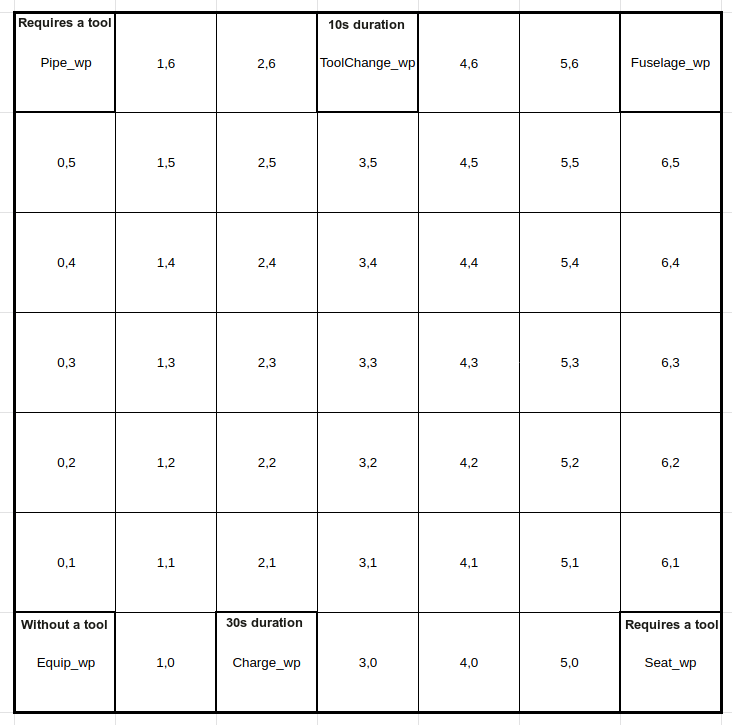
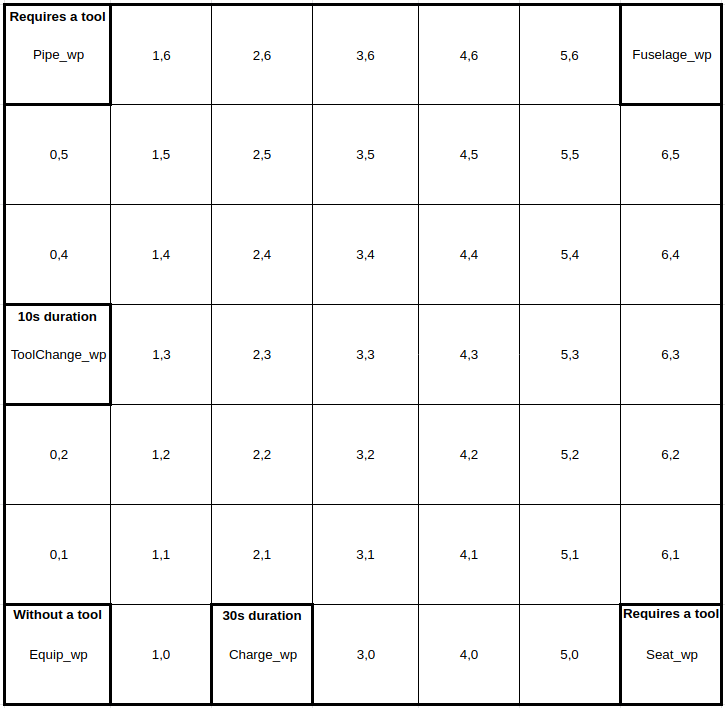
changed wp_tool location & started Organizing Agent implementation

diff --git a/airbus_demo/src/organizing_agent/sensors/payload_in_sensor.cpp b/airbus_demo/src/organizing_agent/sensors/payload_in_sensor.cpp
@@ -27,7 +27,7 @@ class PayloadSensor : public Sensor
             robot_name_ = this->get_parameter("agent_id").as_string();
 
             OA_payload_subscriber_ = this->create_subscription<JobDefinition>("/ttb/central/transportJob", 
-                rclcpp::QoS(5).best_effort(),
+                rclcpp::QoS(5).reliable(),
                 std::bind(&PayloadSensor::jobReceivedCallback, this, _1));
             
             payload_belief = Belief();
@@ -43,11 +43,10 @@ class PayloadSensor : public Sensor
         {
             new_payload_ = *msg;
 
+            /*
             float payload_x = new_payload_.start_location[0];
             float payload_y = new_payload_.start_location[1];
-
             string raw_wp = "wp_" + to_string((int)payload_x) + to_string((int)payload_y) ;
-
             if(raw_wp == "wp_00")
             	raw_wp = "wp_equip";
             else if(raw_wp == "wp_06")
@@ -60,9 +59,10 @@ class PayloadSensor : public Sensor
             	raw_wp = "wp_seat";
             else if(raw_wp == "wp_66")
             	raw_wp = "wp_fuselage";
+            */
 
             payload_belief.params[0] = new_payload_.payload;
-            payload_belief.params[1] = raw_wp;
+            payload_belief.params[1] = new_payload_.start_location_name;
             sense(payload_belief, ADD);      
         }
 

diff --git a/airbus_demo/src/organizing_agent/actions/ask_for_transportation.cpp b/airbus_demo/src/organizing_agent/actions/ask_for_transportation.cpp
@@ -1,0 +1,31 @@
+/*
+    implementation for this action
+
+
+
+    if progress == 0
+        picked_agents_ = select_rnd_agents(num)
+        for all picked_agents_:
+            accepted, performed = sendBeliefUpd tool_required
+            accepted, performed = sendBeliefUpd payload_in (i.e. where it is now)
+            
+            if not accepted or not performed:
+                FAILURE
+            else:
+                accepted, performed = sendDesireReq with value: 
+                    [payload_in (where it should go), ***something to say that you need to wait and do the job with others***]
+                if not accepted or not performed:
+                    FAILURE
+                    
+    else:
+        target_reached = .... #isMonitoredDesireFulfilled true for all the monitored desires
+
+        if(target_reached)
+            SUCCESS
+        elif(progress == 99 and not target_reached):
+            FAILURE
+
+    
+    return tiny_increment 
+
+*/

diff --git a/airbus_demo/src/transporting_agent/sensors/position_sensor.cpp b/airbus_demo/src/transporting_agent/sensors/position_sensor.cpp
@@ -54,7 +54,7 @@ class TransportingAgentWPSensor : public Sensor
             	raw_wp = "wp_pipe";
             else if(raw_wp == "wp_20")
             	raw_wp = "wp_charge";
-            else if(raw_wp == "wp_36")
+            else if(raw_wp == "wp_03")
             	raw_wp = "wp_toolchange";
             else if(raw_wp == "wp_60")
             	raw_wp = "wp_seat";
